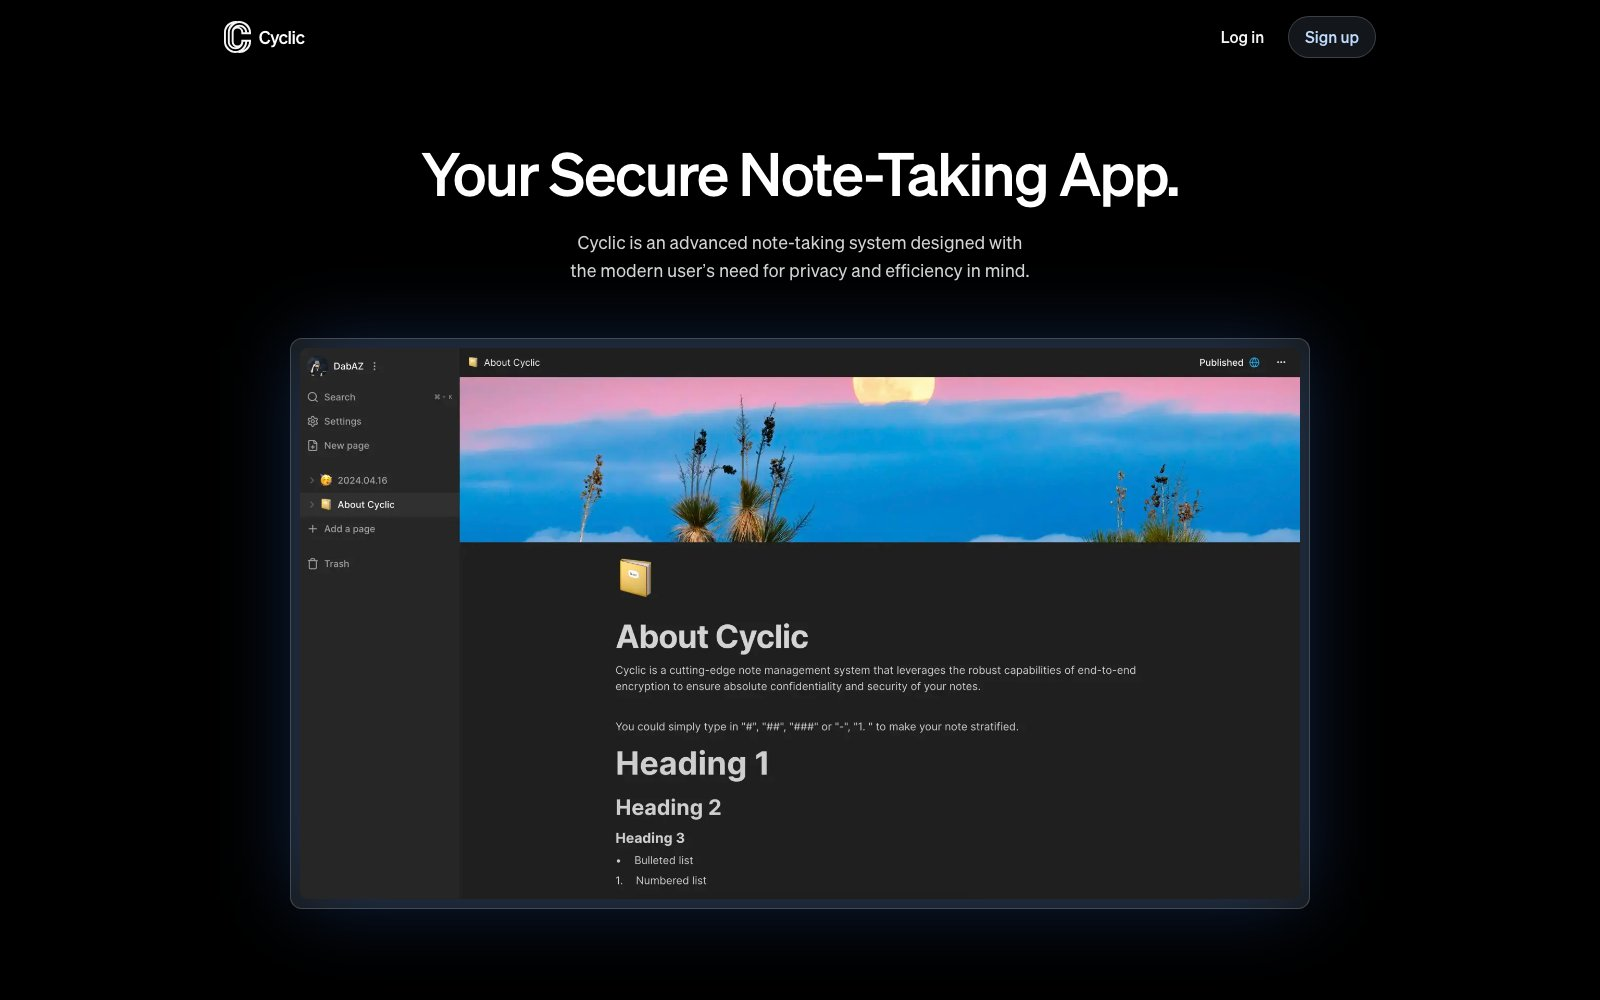
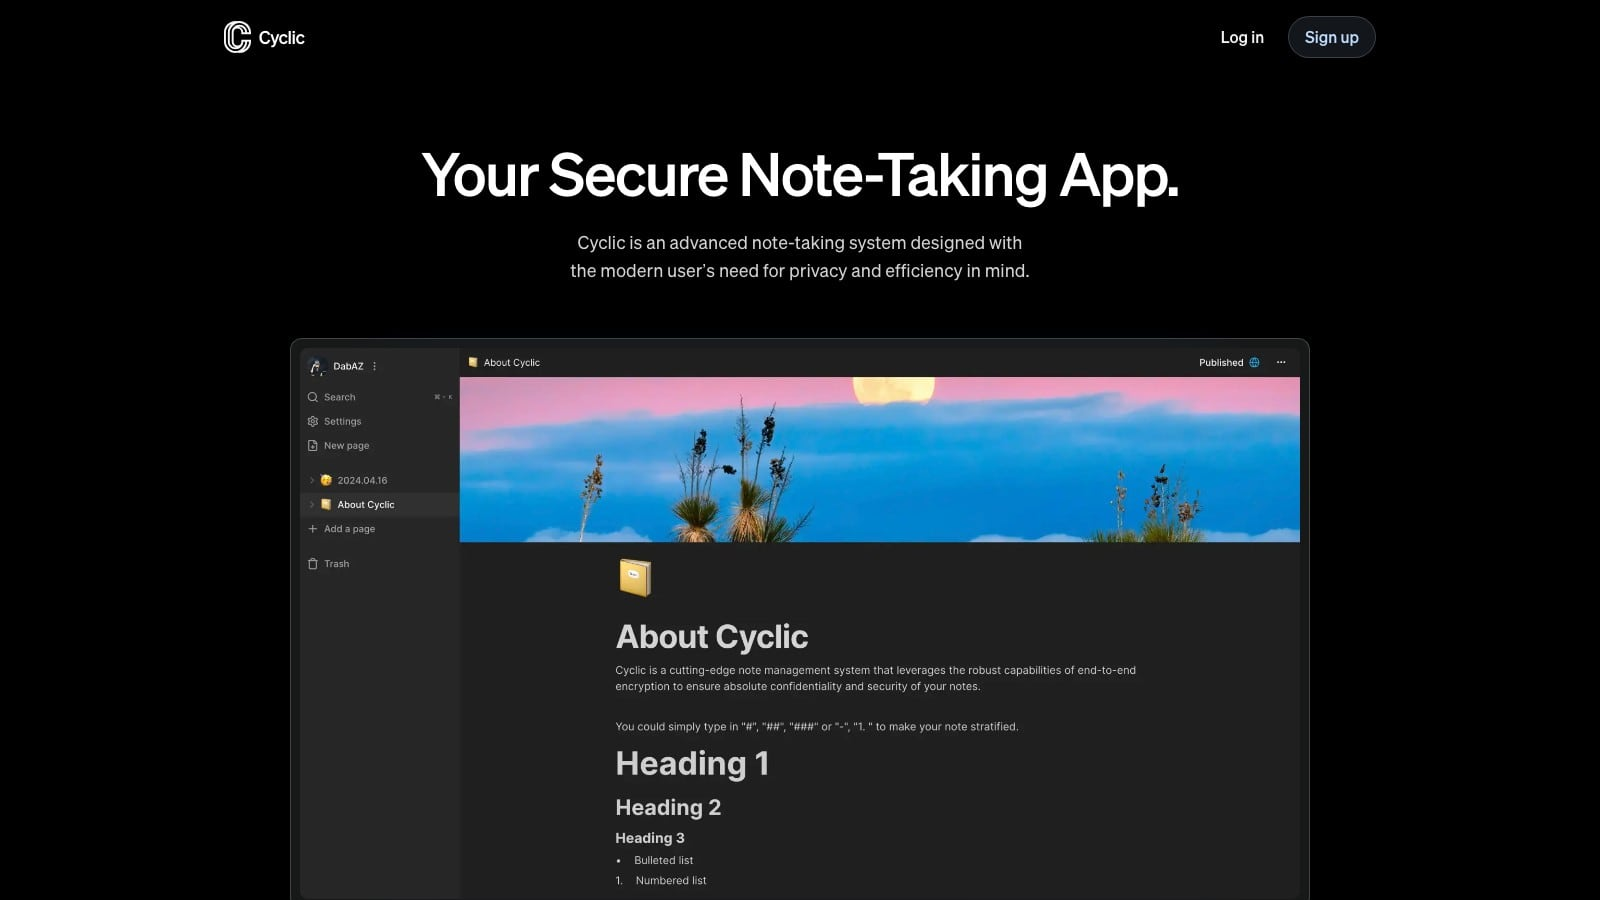
feat(work): switch the covers to 16:9 and recapture them
All seven home covers are fresh 1600x900 captures, light and dark, at the
ratio the contract now names. DESIGN.md §7.4 and §9, the gallery and the
showcase follow.

Changed region(s): [[0.1562, 0.1556, 0.8438, 1.0], [0.75, 0.0, 0.875, 0.0622], [0.125, 0.0, 0.1875, 0.0622]]

diff --git a/src/CONVENTIONS.md b/src/CONVENTIONS.md
@@ -163,7 +163,7 @@ Chinese string in `src/content/` or `src/data/` breaks the spacing rule.
 | `components/home/WritingSection.astro` | `entries: WritingEntry[]`, `hasMore: boolean`, `locale?` | the newest posts as home rows (`h3` titles, no tags), plus `All writing` only when more exist; the page renders the section only when a post exists |
 | `components/home/ContactSection.astro` | `locale?` | the home band; the address and the contact subset of `social.all` live in `components/contact/ContactDetails.astro` |
 | `components/work/WorkShowcase.astro` | `entries: CollectionEntry<"works">[]`, `locale` | pill-tab project gallery: one screenshot and one `summary` per record, cross-fading in one grid cell, with the medallion apple.com puts a play/pause in — a link to that project's case study (`/work/<slug>`, `/zh` alongside) named `ui.work.caseStudy`; the caption row is sized by the tallest summary so tabs never move; a tab list that overflows gets a 44px paddle per side that still has tabs beyond the edge; a press steps the selection by one project; the paddles are skipped in the tab order; the tab behaviour is the site's one client module (CONVENTIONS.md §6); nav hidden and panels stacked with scripting off |
-| `components/work/WorkGallery.astro` | `entries: CollectionEntry<"works">[]`, `locale`, `heading?` (`h3` default) | two-up card grid; card = 16:10 screenshot in its own clipped box, `tags[locale]` (`type-label-caps`), title (`type-h3`); hover scales the image 1.03 |
+| `components/work/WorkGallery.astro` | `entries: CollectionEntry<"works">[]`, `locale`, `heading?` (`h3` default) | two-up card grid; card = 16:9 screenshot in its own clipped box, `tags[locale]` (`type-label-caps`), title (`type-h3`); hover scales the image 1.03 |
 | `components/work/WorkPage.astro` | `entries: CollectionEntry<"works">[]`, `locale` | `/work` body: `type-h1` heading plus the gallery |
 | `components/music/MusicContent.astro` | `locale?`, `subHeading?` (`h3` default) | streaming links, DabMusic as own player, latest releases; kind labels and dates follow the locale |
 | `components/music/MusicPage.astro` | `locale` | `/music` body: `type-h1` heading plus the content under an `h2` |
@@ -443,7 +443,7 @@ header nav to its own routes — `/work`, `/music`, and `/contact` in both
 locales — with the home bands reusing the same bodies.
 
 Open content items, all owner-supplied: a final portrait to replace the CV photo,
-real 16:10 work covers, and a design pass on the writing surfaces, which reuse
+real 16:9 work covers, and a design pass on the writing surfaces, which reuse
 the existing tokens and primitives but have not had thread 1.5 sign-off. Works
 and roles show years by owner decision; the CV's month ranges are not modelled.
 The home and post descriptions are owner copy and sit below rule 07's length

diff --git a/DESIGN.md b/DESIGN.md
@@ -213,7 +213,7 @@ grammar below is awaiting a rewrite.
 - Title: `type-h3`; the whole row is one link. Hover and focus underline the
   title; the row itself does not move, tint, or lift.
 - Summary: `type-body-sm`, `color-text-secondary`, ≤38em.
-- Thumbnail, optional: 96–160px wide, 16:10, `radius-lg`, 1px border. Images
+- Thumbnail, optional: 96–160px wide, 16:9, `radius-lg`, 1px border. Images
   sit left of the title on wide screens only when the list stays scannable.
 
 ### 7.5 Writing row
@@ -271,7 +271,7 @@ grammar below is awaiting a rewrite.
   no CDN, no second family.
 - Decorative icons `aria-hidden`; icon-only controls carry `aria-label` and a
   44×44 target.
-- Project imagery: real screenshots, 16:10, `radius-lg`, 1px border, meaningful
+- Project imagery: real screenshots, 16:9, `radius-lg`, 1px border, meaningful
   `alt`. No stock photos, no device mockups with fake browser chrome, no
   gradient thumbnails.
 - Portrait: one photo, neutral background, no filters.
